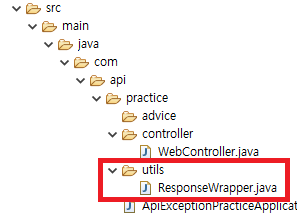
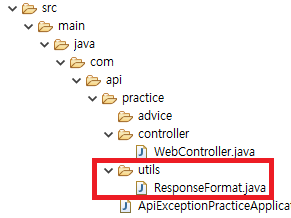
doc: 포스트 사진 변경

diff --git a/Spring/json응답처리와예외처리/READMD.md b/Spring/json응답처리와예외처리/READMD.md
@@ -47,7 +47,7 @@ error처리에 대한 부분도 통일되게 할 수 있을 것 같습니다.
 
 공통적으로 처리할 JSON포맷에 대한 클래스를 생성합니다.
 
-저는 **ResponseWrapper**라고 이름 짓겠습니다.
+저는 **ResponseFormat** 으로 이름 짓겠습니다.
 
 ```java
 ```
